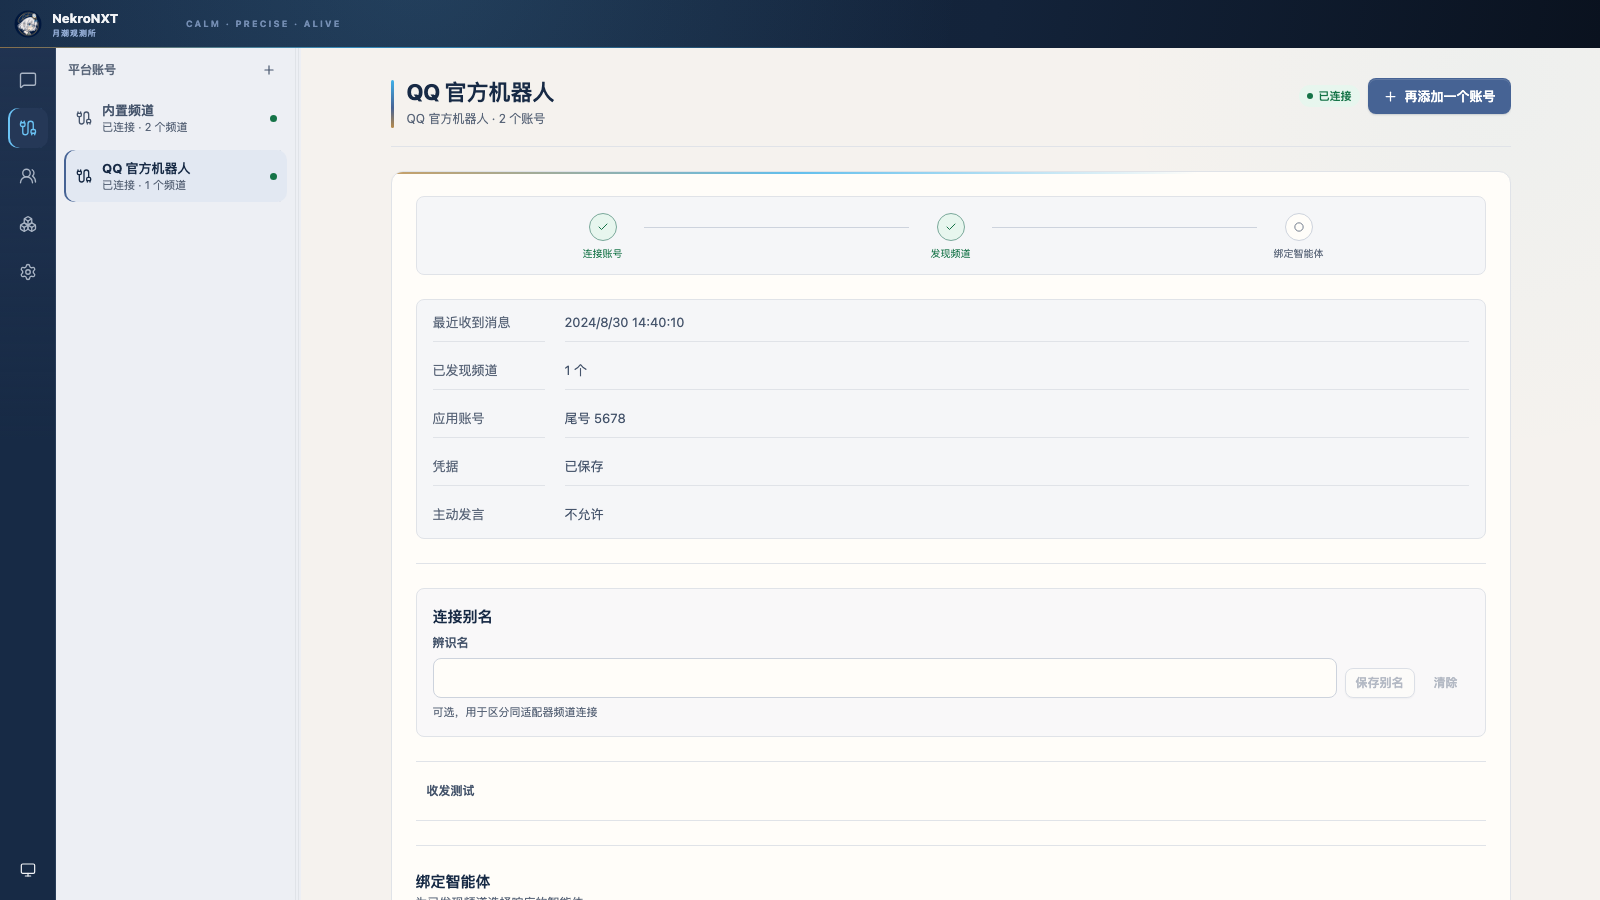
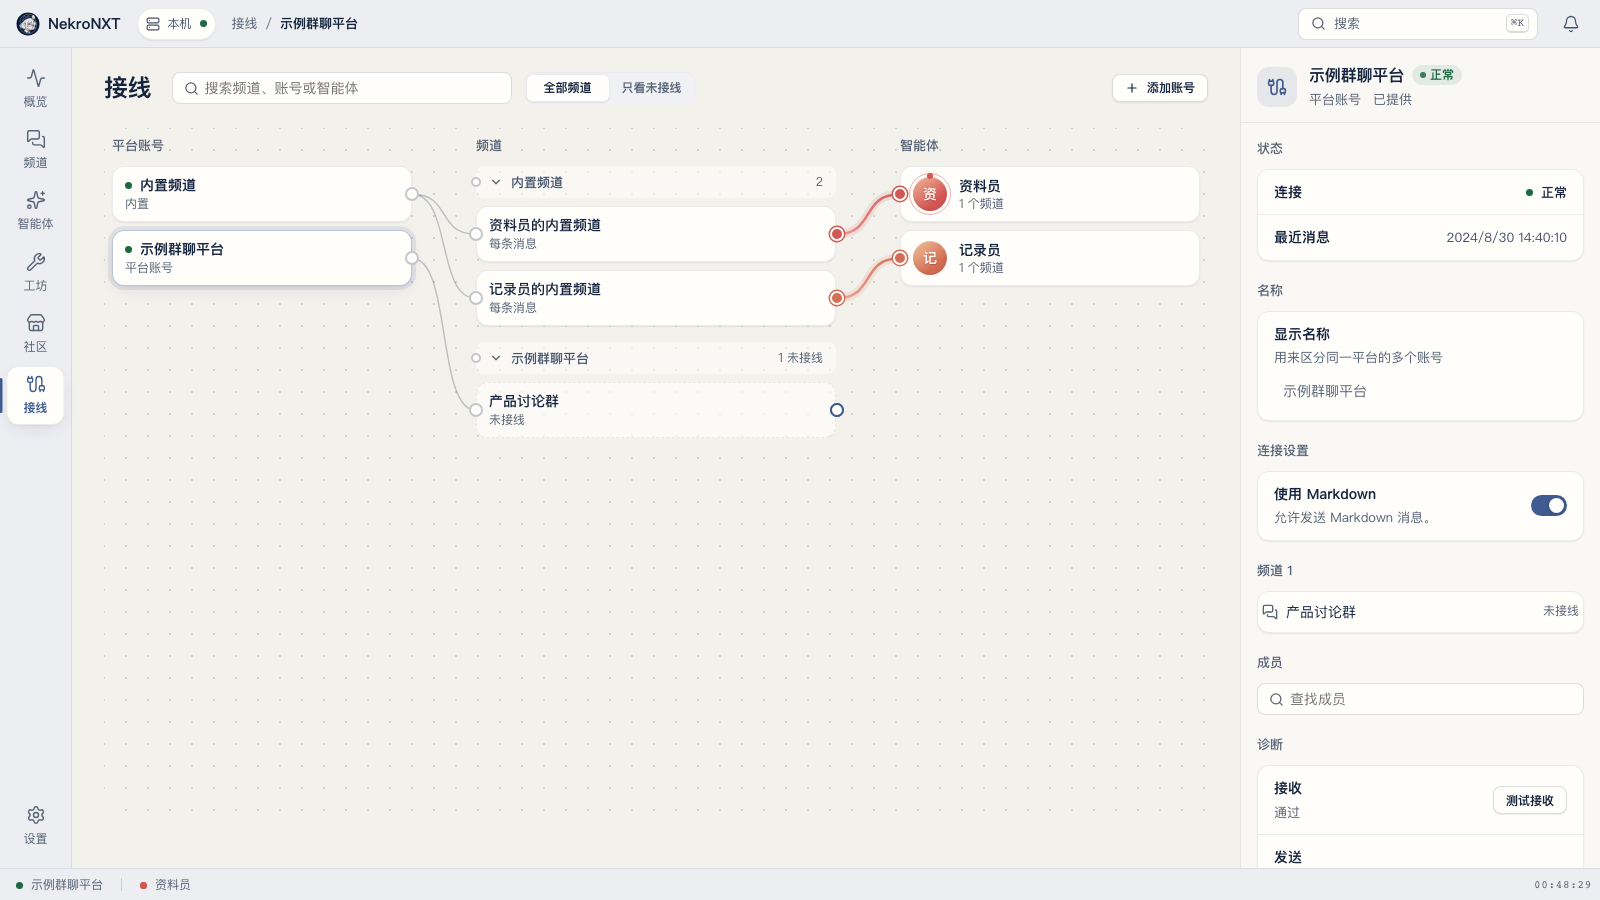
docs(release): 准备 0.3.0 正式版更新内容

diff --git a/docs/releases/current.md b/docs/releases/current.md
@@ -1,33 +1,29 @@
 # ✨ 本次更新
 
-本次更新新增企业微信智能机器人和实验性的微信 iLink 连接。扩展可以提供侧栏中的专属页面，也可以作为新的平台连接安装到本机；DSH 插件可以在设置中安装和管理。动态创造从描述需求到保存可以连续完成，中途不需要补发“继续”。DSH 引擎随本版升级，升级前请先阅读文末的说明。
+本次更新换上了全新的界面，并新增「社区」：可以在 NekroNXT 里直接发现、安装和发布扩展，第一批官方扩展已经上线。扩展可以联网、保存数据、在消息到达时先行处理、按计划唤醒智能体；智能体在对话中就能安排定时任务；工坊可以接入 MCP 服务。服务端现在可以直接用浏览器访问和管理。
+
+![NekroNXT 新界面中的频道会话、消息与频道详情](../../assets/brand/release-images/current/channel-workbench.png)
 
 ## 🚀 主要变化
 
-- **企业微信智能机器人**：填写 BotID 和 Secret 即可通过官方长连接接入，不需要公网回调地址。支持单聊和群聊中提及机器人，可收发 Markdown、图片、文件、语音和视频，并在智能体处理时显示进度；
-- **微信 iLink（实验性）**：用微信扫码登录创建连接，智能体可以回复已发现私聊中的文字消息，也可以选择接收对方发来的图片和文件；
-- **扩展专属页面**：扩展可以提供出现在侧栏的独立页面。安装前会列出页面入口和所需权限，新版本增加权限时需要重新批准；“扩展 → 页面入口”统一调整各页面的显示和顺序；
-- **作为扩展安装的平台连接**：智能体创造或导入的平台适配器安装到本机后，会出现在“添加连接”中。卸载适配器时，已有的连接、频道和历史会保留；
-- **DSH 插件管理**：“设置 → DSH 扩展”可以安装指定版本的 npm 包、npm 压缩包或分享包，选择在本机或指定智能体上启用，并导出给其他设备；
-- **扩展分享与重建**：本地扩展的任意版本都可以导出为 `.nxt-extension` 文件，导入后在本机重新构建和验证。旧格式的扩展可以从原有源码重建为新版本；
-- **动态创造闭环**：在频道里描述需求后，智能体会自己生成、运行并验证扩展。带界面的扩展在浏览器中确认运行后自动继续，智能体会收到结果并完成收尾；带参数的工具会用智能体给出的示例输入真实调用一次；
-- **回到已验证的版本**：如果智能体之后又生成了尚未验证的版本，任务页会提供“回到第 N 次候选”，重新验证通过后即可保存；
-- **频道活动默认值**：连接详情可以一次设置该账号下所有频道的特殊事件和处理中提示，个别频道再单独调整；
-- **移除模型供应商**：可以在设置中移除不再使用的模型供应商。确认前会列出受影响的模型、智能体和频道；智能体配置、频道绑定、聊天记录和已保存的密钥都会保留。
+- **全新界面**：概览、频道、智能体、工坊、接线和设置统一为列表加详情的工作台布局。频道列表可以检索和筛选，详情栏显示智能体、上下文用量和来源；智能体页把模型、频道、能力和定时任务放在一处；接线画布按账号分组展示频道与智能体的绑定。新增命令面板（⌘K / Ctrl+K），可以跳转到任意对象、扩展页面和平台成员，界面密度可在外观中调整；
+- **社区**：新的「社区」入口可以浏览和搜索社区扩展，查看审查结论和所需权限后一键安装，安装后仍需在智能体上启用。「已安装」会提醒新发布、作者撤回和下架，并单独列出新版本新增的权限；登录社区账号后，「我的发布」可以把本地扩展发布到社区并查看审查报告。官方维护的扩展标有「官方」，第一批包括掷骰抽签、网页搜索与阅读、图片生成、语音合成、今日运势、节日提醒、RSS 订阅、群管助手和消息守卫；
+- **扩展能做更多事**：扩展可以按声明访问网络、读取用户填写的凭据、保存自己的数据、读取当前频道的聊天记录、调用智能体的模型、渲染图片和解析网页与订阅源。启用前会列出这些权限，新版本扩大权限时需要重新批准。创造扩展时可以填写只用于试运行的测试凭据；
+- **消息处理与定时唤醒**：扩展可以在消息到达、智能体被唤醒之前先行判断，例如按关键词不唤醒、对智能体隐藏或强制唤醒，频道时间线会标出处理结果；扩展也可以按计划唤醒智能体，订阅类扩展没有新内容时不会打扰智能体；
+- **定时任务**：在对话中让智能体「明天早上 8 点提醒我」「每个工作日发一次日报」即可创建，智能体可以查看、修改、暂停和删除。智能体页与频道详情栏会列出所有定时任务，到期提醒在频道中以居中提示显示；
+- **MCP 服务**：在工坊中添加远程或本机 MCP 服务，为智能体批准启用后，其中的工具就会出现在智能体的会话里。扩展详情会显示每个服务的连接结果；
+- **服务端浏览器访问**：服务端可以直接用浏览器打开，输入管理密钥登录；「设置 → 登录设备」列出已登录的浏览器和桌面版，可以撤销其中任意一台；
+- **智能体版本历史**：智能体的人设与模型配置每次保存都会留下版本，可以查看并恢复到之前的版本。删除智能体时可以选择一并删除它的工作区；
+- **模型设置**：可以编辑供应商的模型列表、标注支持图片的模型，并恢复默认目录。
 
 ## 🛠 改进与修复
 
-- **动态创造**：修复验证通过后无法保存、保存后的页面报错 `styles is not defined`、智能体连续出错后无法继续修复，以及任务长期显示“正在开发”等问题。保存时会再运行一次保存后的扩展，运行失败不会生成新版本；任务需要在浏览器中操作时，频道卡片会提示打开任务页面；
-- **工作轨迹与用量**：修复部分模型返回的用量数据导致工作轨迹无法更新、智能体图片诊断无法加载的问题；每一步的用量会显示合计 Token；
-- **OneBot 11**：修复部分图片、文件下载失败和系统事件显示不正确的问题；
-- **界面**：修复导航栏与对象列之间的空隙、编辑智能体配置时草稿丢失，以及侧栏拖拽排序时的反馈问题；
-- **错误提示**：创建智能体等操作失败时会显示具体原因，例如所选模型尚未在供应商中注册。
+- **对话**：工具调用以可读摘要显示，可以展开查看完整输入与结果；翻看历史时消息不再被输入框遮住，输入框变高时仍停在最新消息；
+- **扩展**：扩展的凭据配置现在可以正确保存，停用或删除扩展后会清理不再使用的凭据；未运行的安装可以直接卸载；删除智能体后，它的创造任务和测试凭据会一并移除；
+- **界面**：对话框内容超出窗口时只滚动正文，标题和按钮始终可见；关闭弹出层后焦点回到原来的位置；窄窗口不再出现横向滚动；
+- **错误与状态**：适配器未安装等原因停止的连接会显示为需要处理，并说明原因；某个页面加载失败时保留外壳和草稿，可以原地重试。
 
 ## ⚠ 升级前留意
 
-- **会话会重新开始**：升级会先在数据目录的 `backups/` 中创建恢复点，聊天记录、附件、智能体配置、连接、凭据和扩展都会保留。升级前的模型上下文、未完成的运行和未完成的扩展开发任务不会继续，升级前积压的消息也不会补答；下一条新消息会开始新的上下文；
-- **需要处理的配置**：与新版不兼容的模型配置或扩展会暂停并显示原因，请到对应的设置、智能体或扩展页面修改，或点击“重新检查兼容性”；
-- **旧格式扩展**：显示“需要重建”的扩展，请在扩展详情中点击“从已有源码重建”，然后手动选择新版本并重新核对权限。保存后页面报 `styles is not defined` 的旧版本，需要在创造工作台让智能体重新生成；
-- **平台适配器扩展**：平台适配器运行在服务进程内，请只安装来源可信的适配器；
-- **微信 iLink 的限制**：目前只能回复已发现私聊中的文字，不支持群聊、提及、主动发起消息和发送图片文件；
-- **保留旧版本**：恢复点不包含旧版程序本身。升级前请记下当前版本号，并保留对应的安装包或镜像，以便需要时退回。
+- **升级保留上下文**：升级会先在数据目录的 `backups/` 中创建恢复点。聊天记录、附件、智能体配置、连接、凭据和扩展都会保留，智能体的对话上下文也会继续，不需要重新开始；
+- **社区默认连接正式社区**：浏览和安装社区扩展不需要登录，发布扩展和查看自己的审查报告需要在「社区 → 账号」中登录。安装社区扩展前，请阅读扩展的审查结论和权限说明；扩展的服务端代码会以 NekroNXT 的权限运行。
